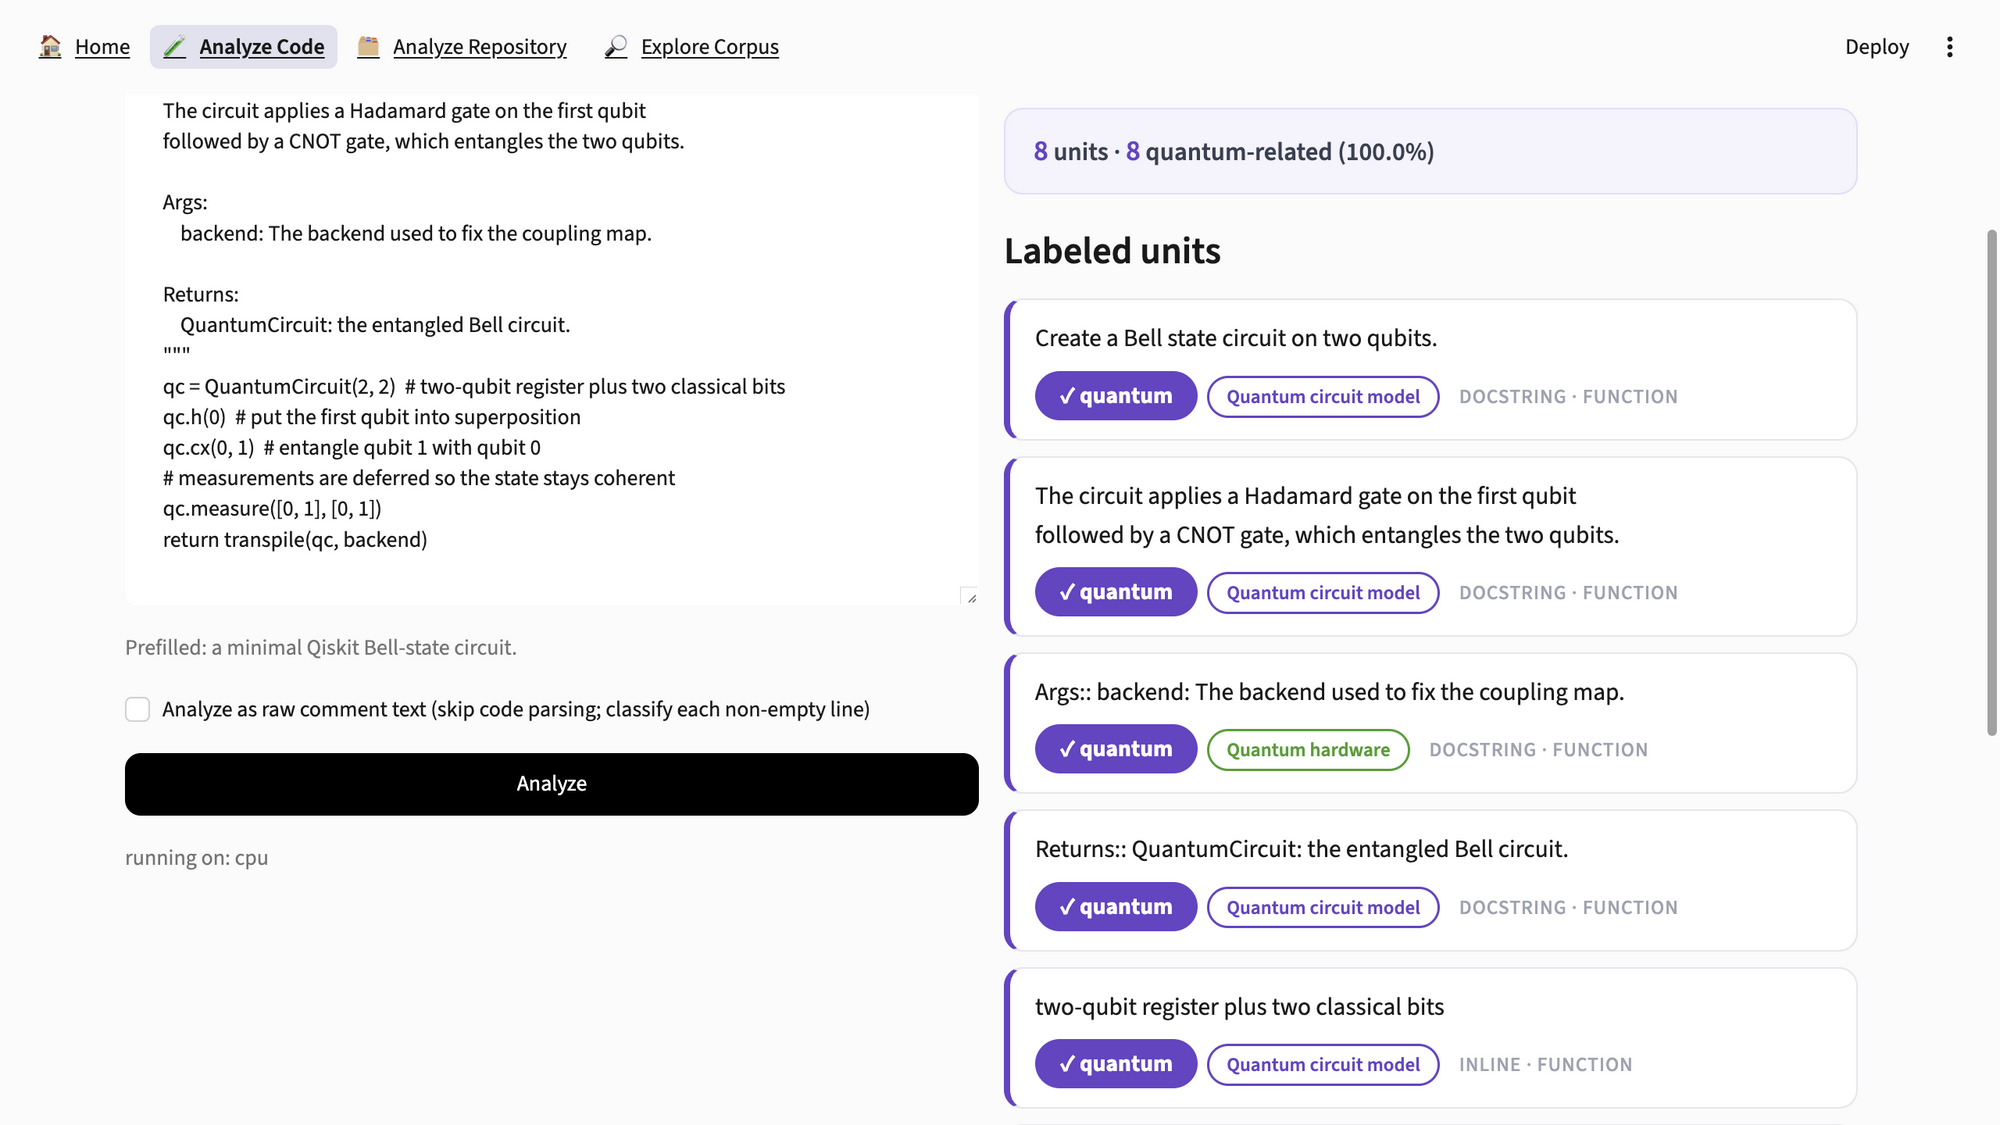
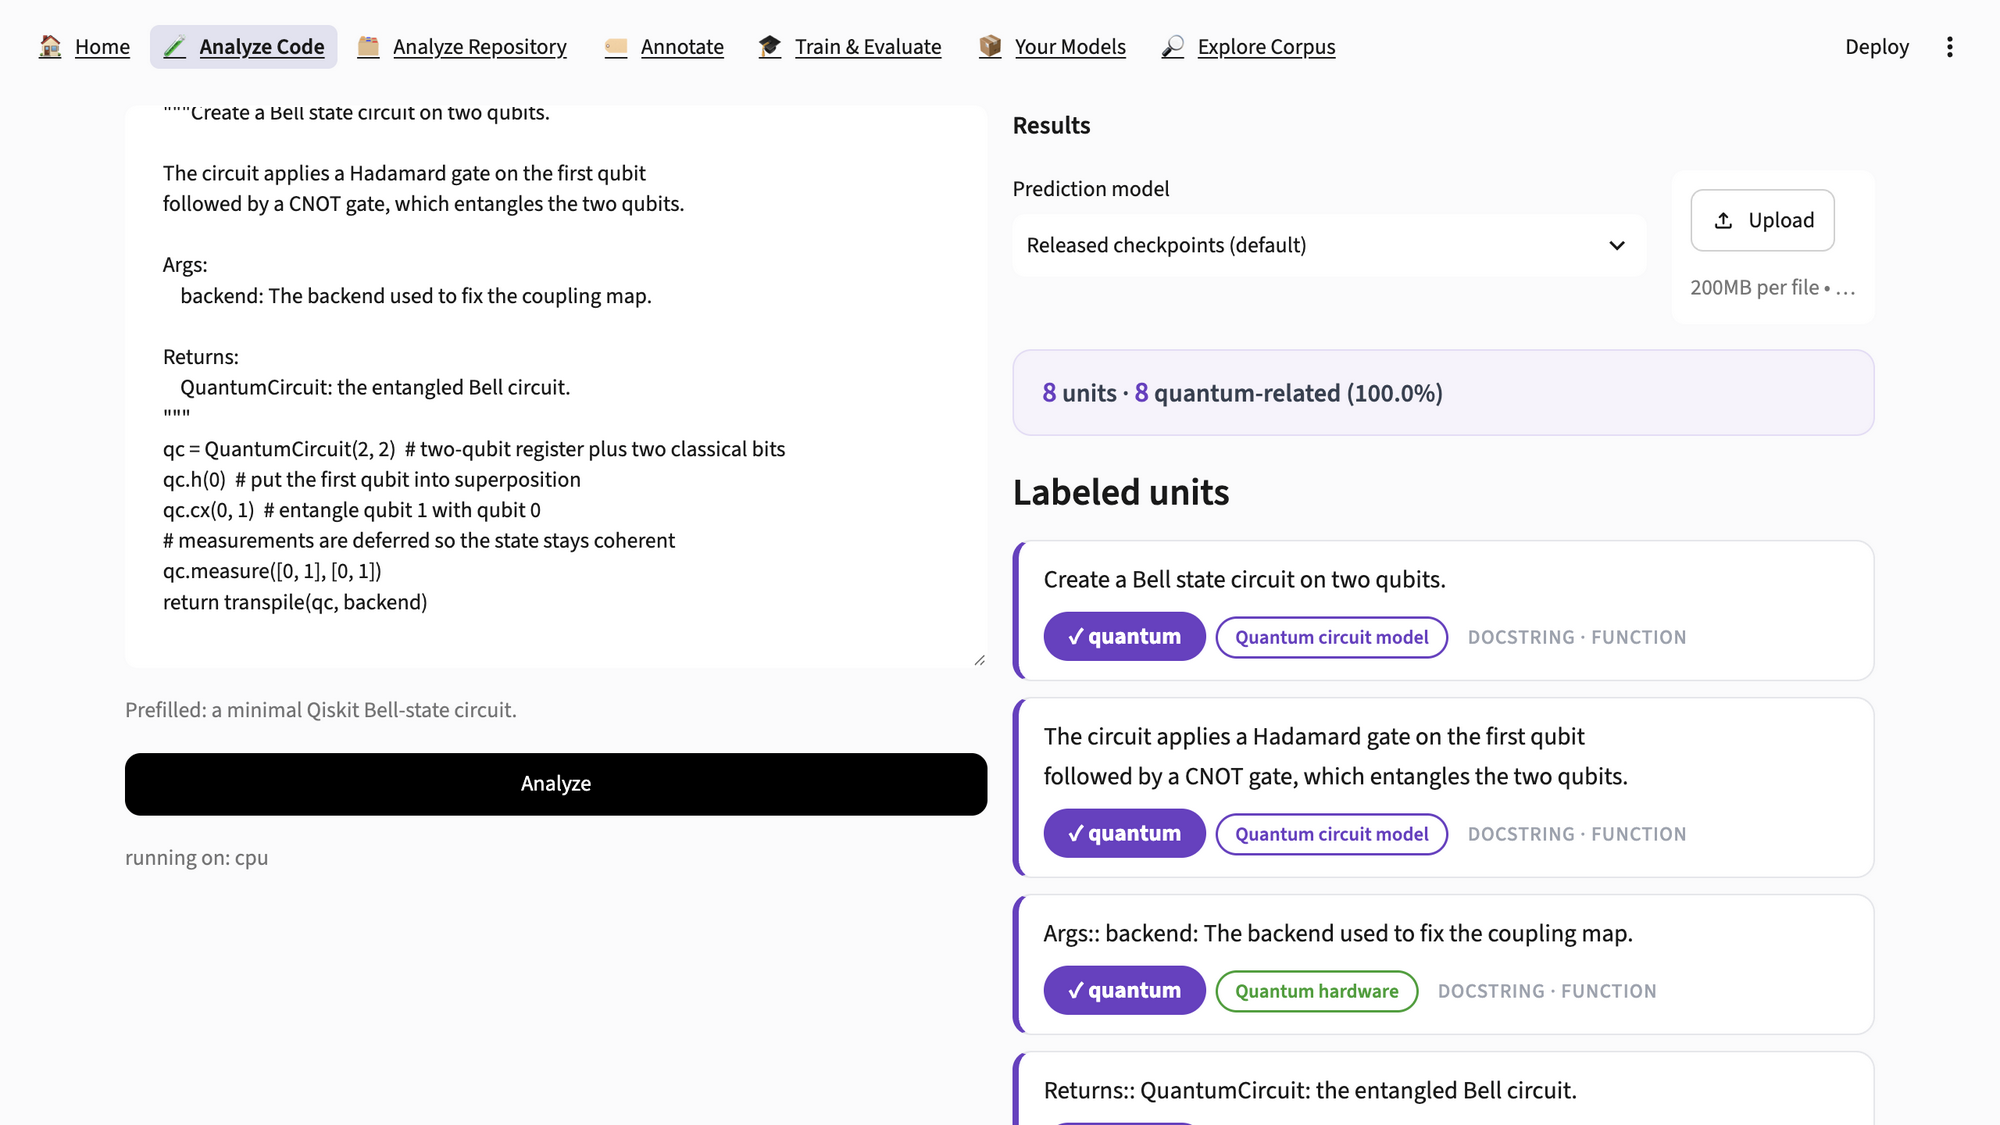
Workbench 2.0: regression battery + design doc
- smoke suite: AppTest renders for Annotate (precomputed source loads,
  sample draw, embedded UI label buttons), Train (empty state + contract
  rejection with bad stash), Your Models (empty registry); home strip check
  updated to the 8 primitives
- tests/test_registry.py: register/dedupe/default/reject/delete/zip
  round-trip (4 tests)
- doc/workbench_design.md: 7-page IA, sections 3.4-3.6 for the new pages,
  model-selector note, new acceptance criterion; Explore Corpus renumbered
  3.7

diff --git a/demo/smoke_test.py b/demo/smoke_test.py
@@ -269,8 +269,9 @@ def test_app_rendering():
                  if "From quantum code to labeled" in (m.value or "")), None)
     check("home hero renders clean typography hero", hero is not None)
     all_md = "\n".join(m.value or "" for m in at.markdown)
-    check("home workflow strip renders",
-          all(k in all_md for k in ("Build", "Inspect", "Profile")))
+    check("home workflow strip renders (8 primitives)",
+          all(k in all_md for k in ("Build", "Predict", "Annotate",
+                                    "Train", "Evaluate", "Visualize")))
     check("home metric card foregrounds quantum axes",
           any("Quantum label axes per unit" in (m.value or "") for m in at.markdown))
     check("home: no honesty info block",
@@ -373,6 +374,43 @@ def test_app_rendering():
             ok = (not at.exception and len(at.dataframe) > 0
                   and any("units match" in (c.value or "") for c in at.caption))
             check("explore: keyword filter returns rows", ok, str(at.exception))
+
+    # Page 5: Annotate — precomputed source loads, sample draw, embedded UI
+    at.switch_page(os.path.join(APP_DIR, "pages", "p_annotate.py")).run()
+    check("page renders: annotate", not at.exception, str(at.exception))
+    if not at.exception:
+        ok = any("records loaded" in (c.value or "") for c in at.caption)
+        check("annotate: precomputed source loads records", ok)
+        draw = next((b for b in at.button if b.label == "Draw sample"), None)
+        if draw:
+            draw.click().run()
+            ok = (not at.exception
+                  and any(("✓ " in (b.label or "")) or (b.label == "quantum")
+                          for b in at.button))
+            check("annotate: sample drawn + embedded UI labels", ok,
+                  str(at.exception))
+
+    # Page 6: Train & Evaluate — empty state, then contract rejection
+    at.switch_page(os.path.join(APP_DIR, "pages", "p_train.py")).run()
+    check("page renders: train", not at.exception, str(at.exception))
+    if not at.exception:
+        check("train: empty state informs",
+              any("No annotated rows yet" in (i.value or "") for i in at.info))
+    at.session_state["train_stash"] = [{"nothing": "usable"}]
+    at.run()
+    check("train: contract violation rejected with error",
+          not at.exception
+          and any("contract" in (e.value or "").lower()
+                  or "need a text column" in (e.value or "").lower()
+                  for e in at.error), str(at.exception))
+    at.session_state["train_stash"] = None
+
+    # Page 7: Your Models — empty registry informs
+    at.switch_page(os.path.join(APP_DIR, "pages", "p_models.py")).run()
+    check("page renders: your-models", not at.exception, str(at.exception))
+    if not at.exception:
+        check("models: empty registry informs",
+              any("No user models yet" in (i.value or "") for i in at.info))
 
 
 def main():

diff --git a/tests/test_registry.py b/tests/test_registry.py
@@ -1,0 +1,66 @@
+"""User model registry tests (tmp registry root via the CC4Q_USER_MODELS env
+or explicit root argument)."""
+
+import json
+import os
+
+import pytest
+
+from cc4q.app import registry
+
+
+def _fake_package(root, name, axes=("quantum_related",)):
+    src_root = os.path.join(root, "_src")
+    os.makedirs(src_root, exist_ok=True)
+    pkg = os.path.join(src_root, name)
+    for axis in axes:
+        d = os.path.join(pkg, axis)
+        os.makedirs(d, exist_ok=True)
+        with open(os.path.join(d, "config.json"), "w") as f:
+            json.dump({"num_labels": 2}, f)
+    return pkg
+
+
+def test_register_list_default(tmp_path):
+    pkg = _fake_package(str(tmp_path), "src_model")
+    entry = registry.register("My model", pkg, root=str(tmp_path))
+    assert entry["axes"] == ["quantum_related"]
+    entries = registry.list_models(root=str(tmp_path))
+    assert len(entries) == 1 and entries[0]["is_default"]
+
+    pkg2 = _fake_package(str(tmp_path), "src_model2")
+    entry2 = registry.register("My model", pkg2, root=str(tmp_path))
+    assert entry2["id"] != entry["id"]  # deduped id
+    registry.set_default(entry["id"], root=str(tmp_path))
+    flags = {e["id"]: e["is_default"] for e in
+             registry.list_models(root=str(tmp_path))}
+    assert flags[entry["id"]] and not flags[entry2["id"]]
+
+
+def test_register_rejects_non_model_dir(tmp_path):
+    bad = os.path.join(str(tmp_path), "not_a_model")
+    os.makedirs(bad)
+    with pytest.raises(ValueError, match="does not look like"):
+        registry.register("bad", bad, root=str(tmp_path))
+
+
+def test_delete(tmp_path):
+    pkg = _fake_package(str(tmp_path), "m")
+    entry = registry.register("m", pkg, root=str(tmp_path))
+    registry.delete(entry["id"], root=str(tmp_path))
+    assert registry.list_models(root=str(tmp_path)) == []
+    assert not os.path.isdir(registry.package_dir(entry["id"],
+                                                  root=str(tmp_path)))
+
+
+def test_zip_roundtrip(tmp_path):
+    pkg = _fake_package(str(tmp_path), "m", axes=("quantum_related",
+                                                  "developer_intent"))
+    entry = registry.register("m", pkg, root=str(tmp_path))
+    dest = str(tmp_path / "out.zip")
+    registry.zip_package(entry["id"], dest, root=str(tmp_path))
+    import zipfile
+    with zipfile.ZipFile(dest) as zf:
+        names = zf.namelist()
+    assert any(n.startswith("quantum_related/") for n in names)
+    assert any(n.startswith("developer_intent/") for n in names)

diff --git a/doc/workbench_design.md b/doc/workbench_design.md
@@ -40,14 +40,22 @@ quantum-specific comment taxonomy.
 
 ## 3. Information Architecture
 
-Four pages, reachable via the top navigation (`st.navigation`):
+Seven pages, reachable via the top navigation (`st.navigation`):
 
 | Page | Workflow stage | Purpose |
 |---|---|---|
-| 1. Home | — | Positioning, numbers, entry points |
+| 1. Home | — | Positioning, numbers, 8-primitive workflow strip |
 | 2. Analyze Code | Inspect (unit level) | Paste snippet → real-time three-axis labels |
-| 3. Analyze Repository | Build → Inspect → Profile | The hero page |
-| 4. Explore Corpus | Inspect (browse) | Filter/search labeled SCCUs |
+| 3. Analyze Repository | Build → Inspect → Profile | The hero page (precomputed + live) |
+| 4. Annotate | Annotate | Sample a corpus, review in the embedded annotation UI, export / send to Train |
+| 5. Train & Evaluate | Train / Evaluate | In-page fine-tuning with live metrics; auto-comparison vs the released model |
+| 6. Your Models | — | Registry of trained/uploaded model packages (default model, download, delete) |
+| 7. Explore Corpus | Inspect (browse) | Filter/search labeled SCCUs |
+
+Analyze Code and the repository live mode share a **model selector**:
+released checkpoints (default) or any package from Your Models; uploaded
+zips register on the spot. Single-axis packages fall back to the released
+checkpoints for the missing axes.
 
 ### 3.1 Home
 
@@ -121,7 +129,35 @@ paper
   cards. This is the figure that supports the paper's infrastructure-vs-
   application-layer finding.
 
-### 3.4 Explore Corpus
+### 3.4 Annotate
+- Source: precomputed SDK corpus (quantum-only toggle), uploaded JSONL, or
+  session predict output.
+- Sampling: random / stratified-by-columns / per-stratum quotas, n + seed.
+- Review: the annotation UI embedded via `cc4q.annotate.ui.render_annotation`
+  (namespaced session state; blind/adjudicate; adjudicate suggestions from
+  `quantum_related` when present). Export CSV/JSONL; "Send to Train" stashes
+  rows for the Train page.
+
+### 3.5 Train & Evaluate
+- Data: stashed annotations or uploaded JSONL/CSV; free-form labels are
+  mapped onto the task contract (quantum_related accepts quantum/non-quantum
+  words; 6-class tasks accept canonical names); contract violations show
+  `cc4q.train`'s example-row error and disable training.
+- Guardrail: >2,000 rows warns that the CLI is recommended.
+- Training runs in-session (`cc4q.train`, HF Trainer) with a callback
+  streaming loss/eval to the page; defaults: bert-base-uncased, 3 epochs,
+  batch 32.
+- On completion the model registers into Your Models and the page compares
+  it against the released model (agreement / precision / recall / Wilson CI)
+  on the training texts.
+
+### 3.6 Your Models
+- Registry: `registry.json` over `user_models/` (repo-local in a checkout,
+  `~/.cache/cc4q/user_models` from a wheel; `CC4Q_USER_MODELS` overrides).
+- Operations: list, set-default (drives the Analyze-page selector), download
+  zip, delete, upload zip (validated: one HF dir per axis).
+
+### 3.7 Explore Corpus
 
 - Default view: **quantum units only** (toggle to include non-quantum).
 - Filter bar order: quantum category → entity level → comment form → SDK →
@@ -222,7 +258,11 @@ missing checkpoints disable Analyze buttons with instructions, never crash.
    (spot-check one SDK).
 5. Compare mode visually reproduces the infra-vs-application gap
    (Quantum % 34.3 vs 26.0 aggregate).
-6. No developer-intent UI anywhere — no intent charts, badges, filters, or
+6. All seven pages render under AppTest; the Annotate page loads a
+   precomputed corpus, draws a sample, and shows the embedded UI; the Train
+   page rejects contract violations with its example-row error; the model
+   selector defaults to the released checkpoints.
+7. No developer-intent UI anywhere — no intent charts, badges, filters, or
    table columns; intent appears only in the data layer (units JSONL,
    manifest, downloads). The third classifier still runs at inference time.
 
